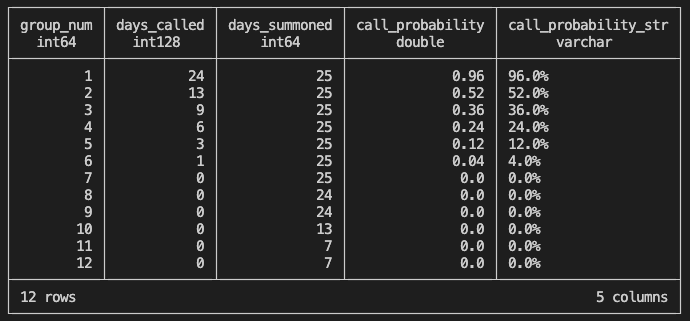
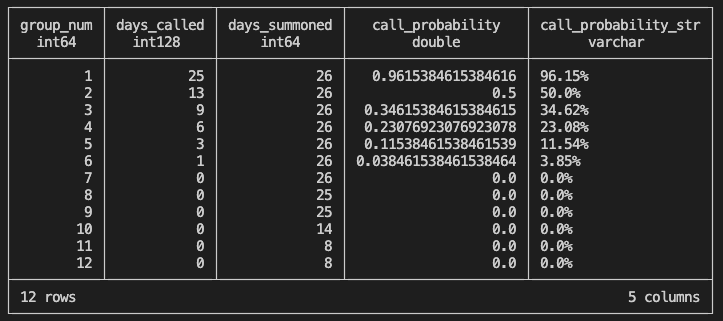
Update jury duty data

diff --git a/projects/jury-duty/jury-duty-group-selection.html b/projects/jury-duty/jury-duty-group-selection.html
@@ -19,23 +19,23 @@
         <p>I'm a big fan of <a href="https://vita.had.co.nz/papers/tidy-data.pdf">Tidy Data principles</a>, but even after using tidy data principles for years, it's still natural for the mind to gravitate towards a structure that is easier to read, but nonetheless messy.</p>
 
         <p>Below is the initial data structure I started with. It quickly became apparent that a tidier format would be easier to work with, and I didn't really need to record notes and days when no groups were called.</p>
-        <img src="images/non-tidy-data.png">
+        <img src="images/non-tidy-data.png" class="responsive">
 
 
         <p>After converting to a tidier format, the <a href="https://github.com/bbgatch/bbgatch.github.io/blob/main/projects/jury-duty/jury-duty.csv">data</a> looks like this. There is a record for each day that each group was summoned and a flag that records whether or not the summoned group is actually called to come in person.</p>
-        <img src="images/jury-duty-data.png">
+        <img src="images/jury-duty-data.png" class="responsive">
 
         <p>I've recorded most days that jury duty groups were summoned so far in 2024. The missing dates are weekends, holidays, weekdays where no groups are called, days where it's not clear which groups were summoned but not called, days where the jury services' phone line was down to due IT issues, or (to be honest) days that I missed recording due to vacation 🏖.</p>
 
       <h2>How likely is each group to be called in?</h2>
         <p>It turns out my intuition was correct that Group 5 was less likely to be called in!</p>
-        <img src="images/group-probability-table.png">
-        <img src="images/group-probability-plot.png">
+        <img src="images/group-probability-table.png" class="responsive">
+        <img src="images/group-probability-plot.png" class="responsive">
         <a href="https://github.com/bbgatch/bbgatch.github.io/blob/main/projects/jury-duty/jury-duty.py">
-          <img src="images/call-probability-code.png">
+          <img src="images/call-probability-code.png" class="responsive">
         </a>
       
-      <p><b>🚧 This is still a work in progress. 🚧</b> I plan to continue to collect this data throughout the year and will see what else I can do with it.</p>
+      <!-- <p><b>🚧 This is still a work in progress. 🚧</b> I plan to continue to collect this data throughout the year and will see what else I can do with it.</p> -->
 
     <!-- Footer -->
     <script language="javascript" type="text/javascript" src="https://www.bbgatch.com/footer.js"></script>
